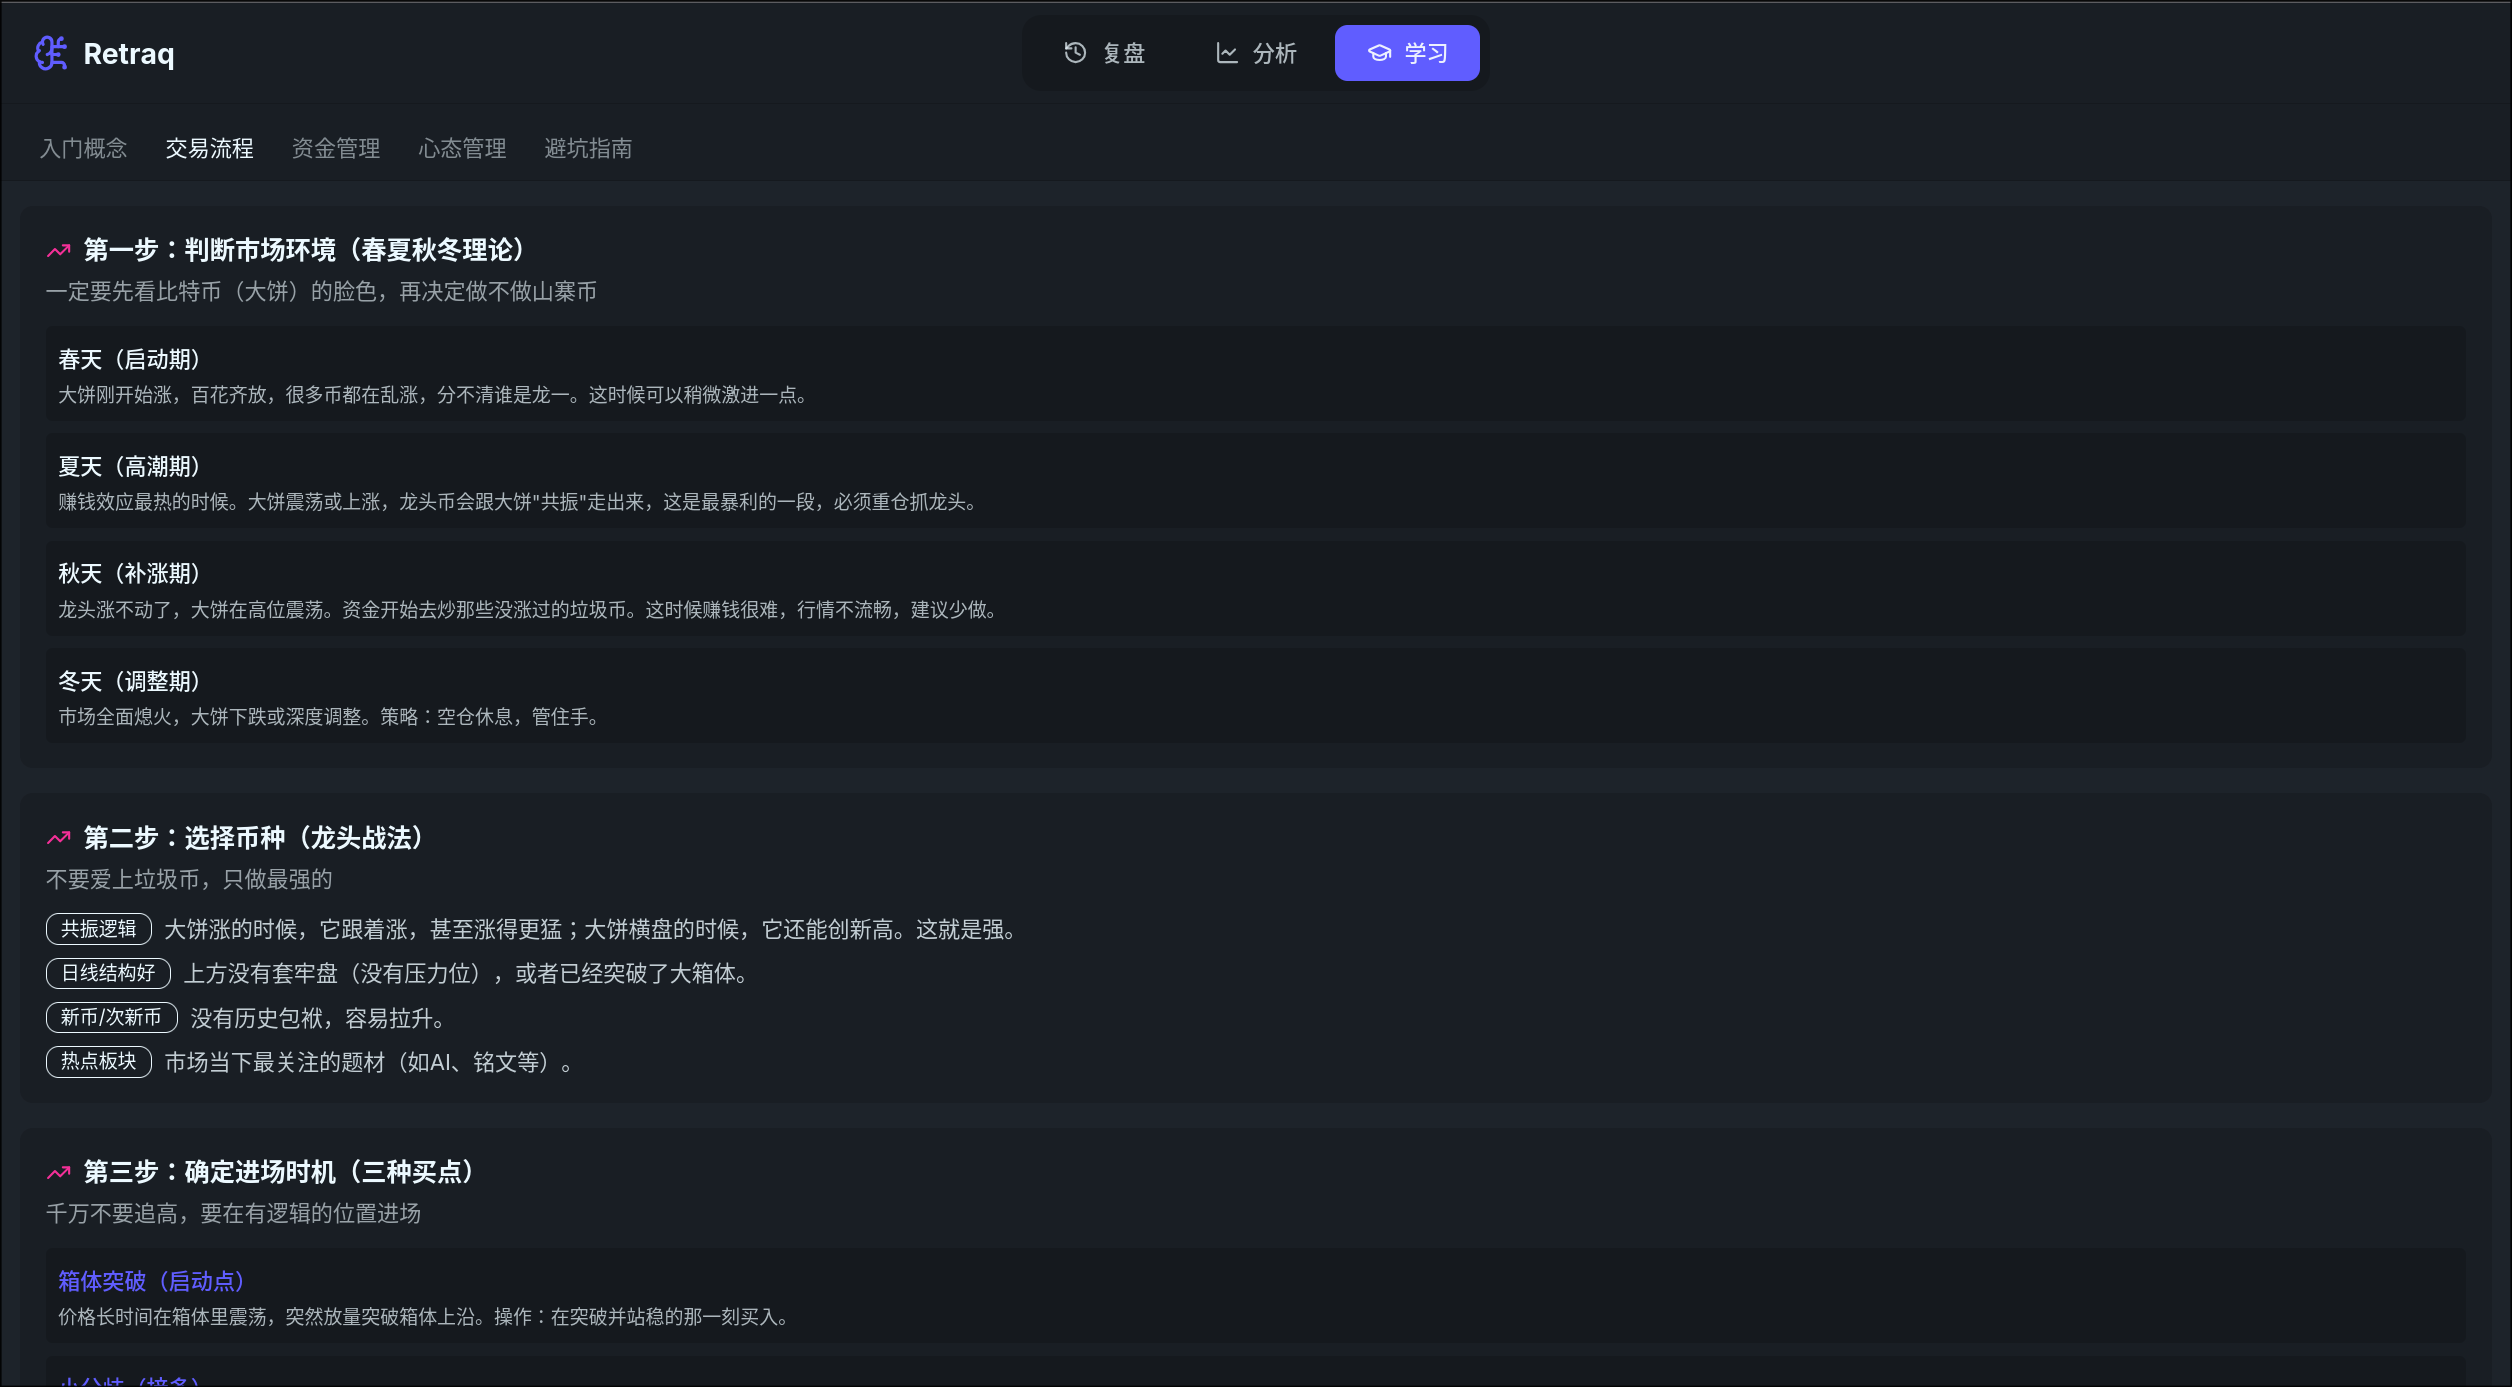
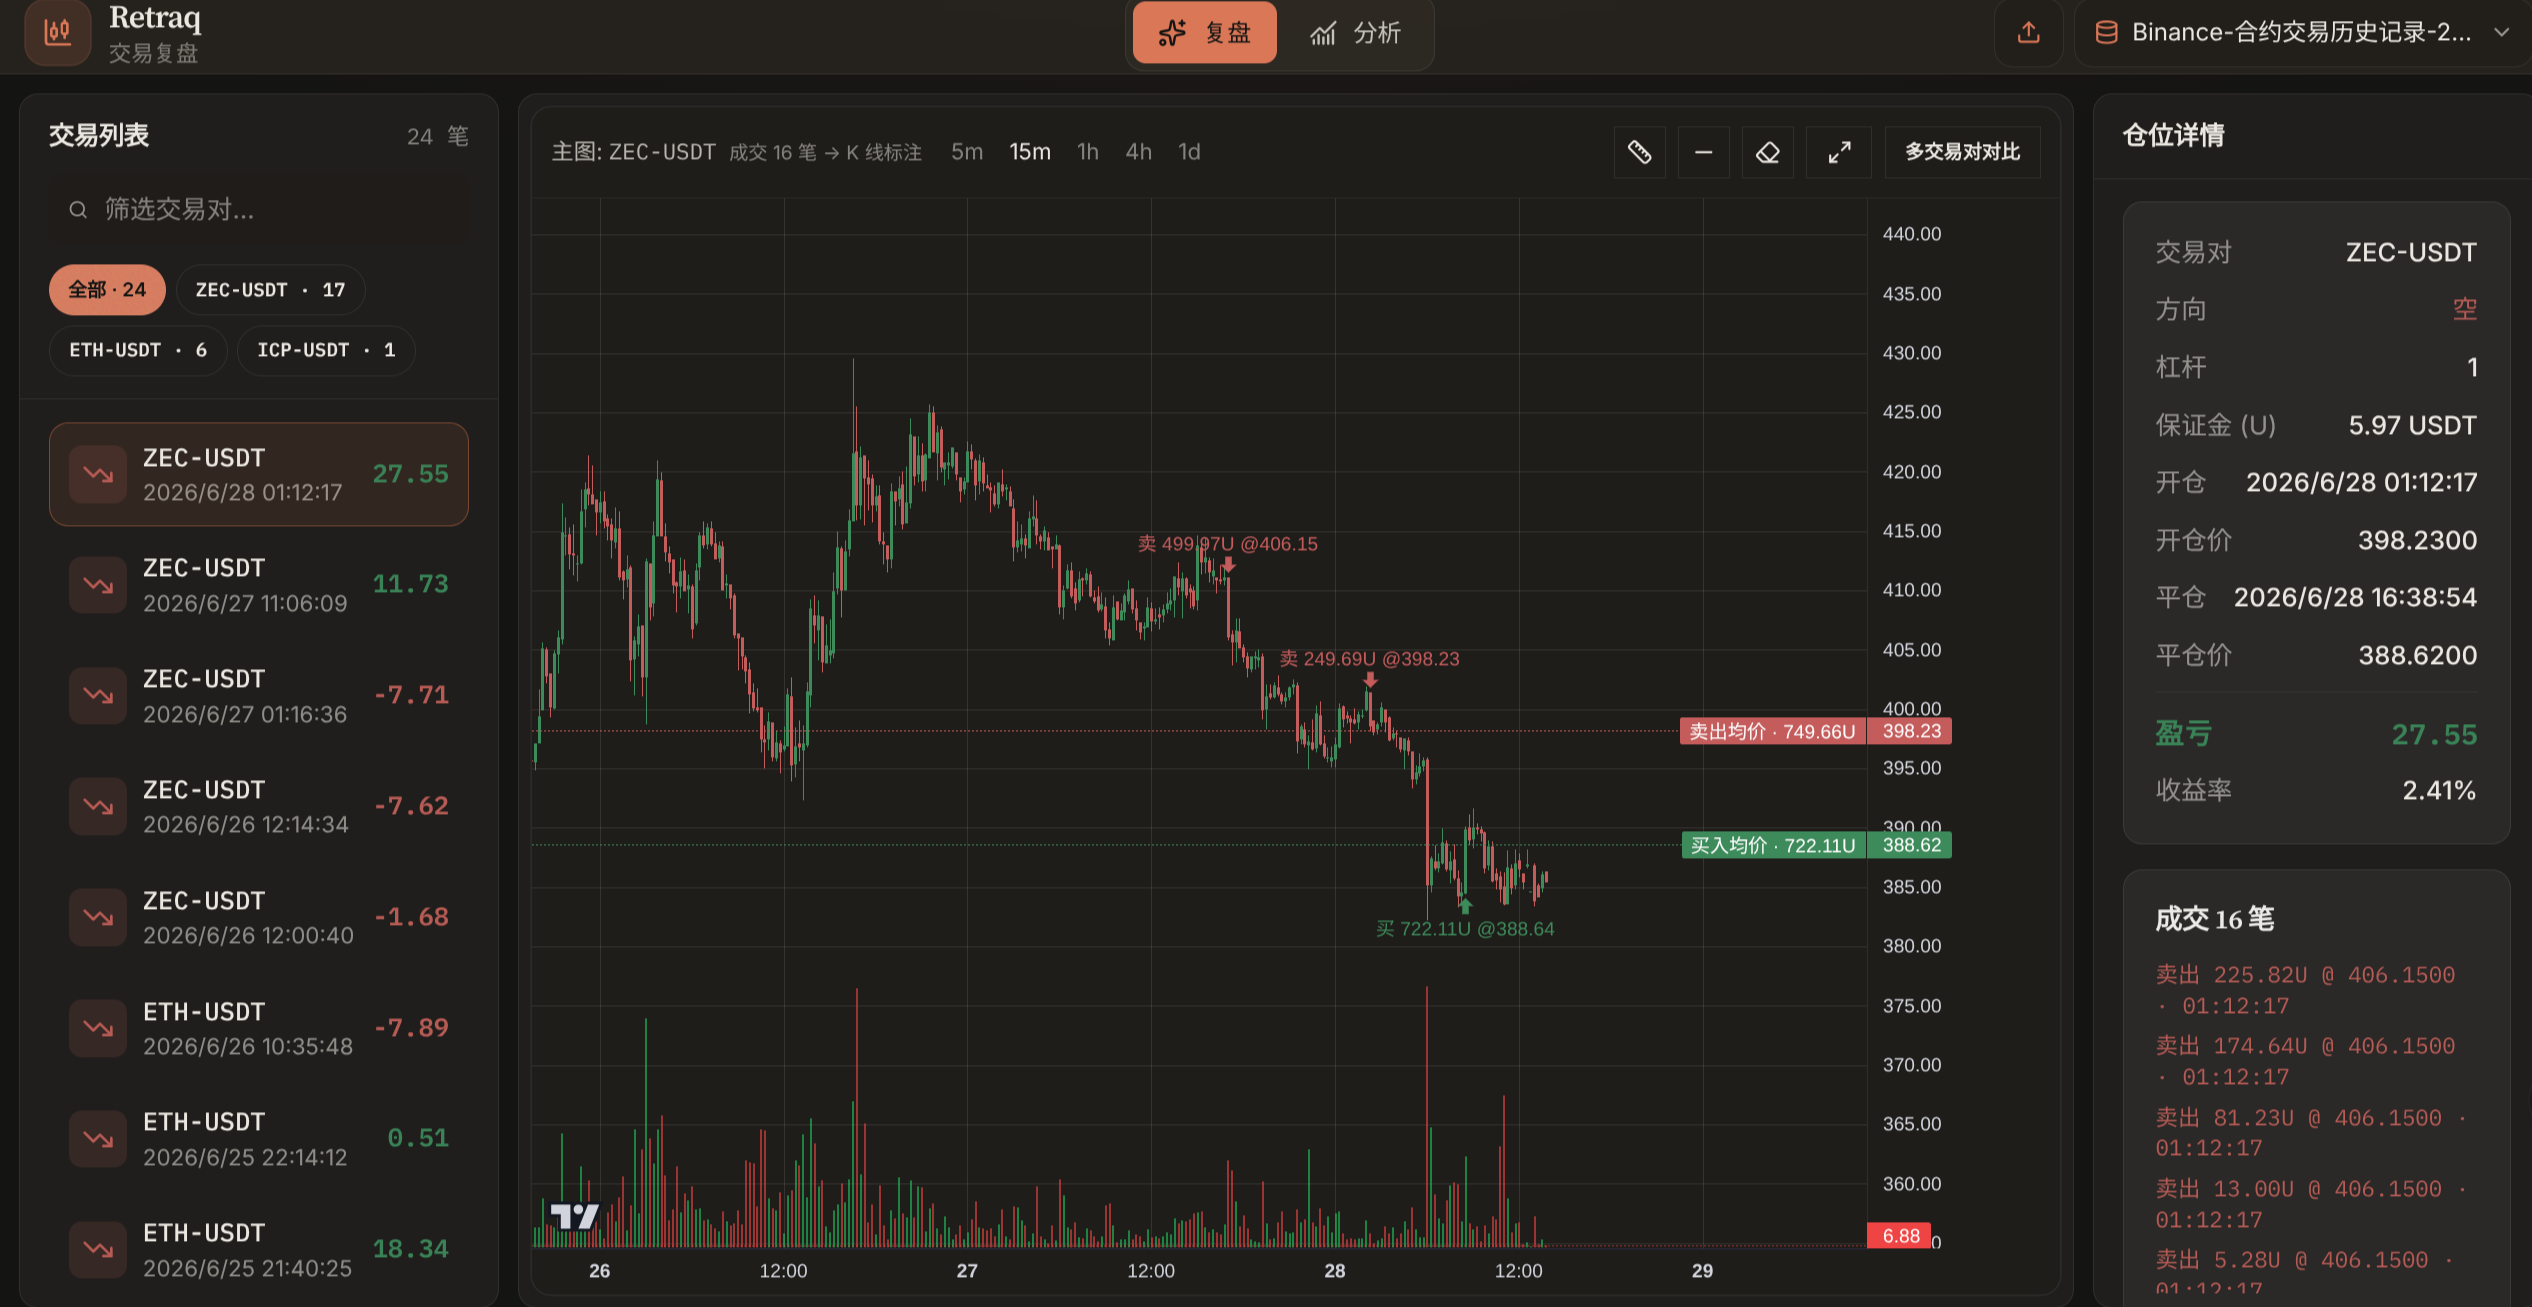
docs: simplify README, single replay screenshot
- Prefer GHCR docker run as quick start
- CI: build image only when app/docker paths change on main
- Remove analysis screenshot

diff --git a/README.md b/README.md
@@ -1,119 +1,50 @@
 # Retraq
 
-本地交易历史复盘工具：按数据集导入交割单，在 K 线上回顾与分析交易记录。
+本地交易复盘：导入交割单 → K 线回放 → 统计分析。**一个导入文件 = 一个数据集**，顶栏切换。
 
-## 截图
+![复盘](docs/images/replay.png)
 
-![复盘页面](docs/images/replay.png)
+## 安全说明
 
-![分析页面](docs/images/analysis.png)
+**请只在本地或可信内网使用。** 无登录、无鉴权；暴露到公网则他人可读写你的数据。
 
-## 功能
-
-- 📈 K线图表 - 从 OKX 获取实时行情数据，支持多周期（5m/15m/1h/4h/1d）
-- 🔀 多周期多交易对对比 - 同时查看不同时间周期和交易对的走势
-- 📍 买卖点标注 - 明确标注买入卖出点和均价，直观复盘每笔交易
-- 📊 交易分析 - 统计胜率、盈亏比、收益曲线等关键指标
-- 📥 多模板导入 - 交割单表格、币安合约交易/仓位历史等（按当前数据集）
-
-## 导入交易记录
-
-在顶栏 **数据集** 处上传 `.xlsx` / `.csv`（交割单格式支持 csv）。数据写入**当前选中的数据集**。
-
-| 模板 | 说明 |
-|------|------|
-| **交割单表格** | 表头含「交易对」等列；`template=auto` 自动识别。示例见 `samples/bit-langge-delivery-example.xlsx`（bit浪浪 交割单数据，仅作格式参考） |
-| **币安 U 本位合约交易历史（推荐）** | 下载中心「合约交易历史」；按成交聚合为开平仓，利润用表内「已实现利润」汇总 |
-| **币安 U 本位合约仓位历史** | 下载中心「仓位历史」；已平仓行直接导入 |
-
-### 币安 U 本位合约交易历史（推荐）
-
-1. [下载中心 → 合约交易历史（U 本位）](https://www.binance.com/zh-CN/my/download-center?type=trade-futures-trade-history&child-type=trade-futures-trade-history-u)（路径以币安页面为准）。
-2. 顶栏导入 **币安 U 本位合约交易历史** xlsx（`template=auto` 可识别）。
-3. 系统按时间将 BUY/SELL 成交合成回合：开仓加权均价、平仓加权均价；**profit = 该回合各笔「已实现利润」之和**（与币安一致）；**profit_rate** 用价差相对开仓价估算；**margin** 用开仓名义价值（无杠杆列时 leverage=1）。
-
-### 币安 U 本位合约仓位历史
-
-1. 登录 [币安](https://www.binance.com)，打开 [下载中心 → 合约仓位历史（U 本位）](https://www.binance.com/zh-CN/my/download-center?type=trade-futures-position-history&child-type=trade-futures-position-history-u)。
-2. 选择时间范围并下载 Excel（表头行为「代币名称/币种名称/币对」等，文件内前几行为账户信息）。
-3. 顶栏上传 **币安 U 本位合约仓位历史** xlsx。系统会按文件名创建/更新数据集并自动切换到该表（默认覆盖，仅含本表仓位）。
-
-导入会映射：交易对、多/空、入场价、平仓均价、结算盈亏、开仓/平仓时间（按 UTC+8 解析）。仅导入状态为 **Closed** 的仓位；杠杆、保证金、收益率等字段导出中无则留空。
-
-## 技术栈
-
-**前端**
-- React 19 + TypeScript
-- Vite
-- TailwindCSS + DaisyUI
-- Lightweight Charts
-
-**后端**
-- FastAPI
-- SQLAlchemy + SQLite
-- CCXT (OKX)
-
-## 快速开始
-
-### 环境要求
-
-- Python 3.11+
-- Node.js 18+
-- pnpm
-- uv (Python 包管理器)
-
-### 安装
-
-```bash
-# 克隆项目
-git clone https://github.com/Xeron2000/retraq.git
-cd retraq
-```
-
-### 启动
-
-无「档案」概念：仅**数据集（= 导入的表格）**。顶栏上传/切换数据集；首次安装库为空，需自行导入。
-
-```bash
-# 后端
-cd backend
-uv sync
-uv run python import_data.py
-uv run uvicorn main:app --reload --port 9527
-
-# 前端（新终端）
-cd frontend
-pnpm install
-pnpm dev
-```
-
-- 后端 API：http://localhost:9527
-- 前端：见 `pnpm dev` 终端中的本地地址（常用 http://localhost:5173）
-
-### Docker（单容器，推荐本地部署）
-
-前后端打在一个镜像里：FastAPI 提供 `/api`，静态页为构建后的前端；SQLite 持久化在卷 `/data`。
-
-```bash
-# 本地构建
-docker compose up --build -d
-# 浏览器打开 http://localhost:8080
-```
-
-或拉取 CI 构建的镜像（`main` 推送后）：
+## 快速开始（推荐：官方镜像）
 
 ```bash
 docker run -d --name retraq -p 8080:8080 -v retraq-data:/data ghcr.io/xeron2000/retraq:latest
 ```
 
-将 `xeron2000/retraq` 换成你的 `ghcr.io/<owner>/<repo>`（全小写）。数据在命名卷 `retraq-data`，删容器不删库。
+浏览器打开 **http://localhost:8080**。SQLite 在卷 `retraq-data`（`/data`），删容器不删库。
 
-## 注意事项
+## 导入数据
 
-- 本项目为个人学习工具，数据存储在本地 SQLite
-- K 线数据来自 OKX 公开 API，请遵守交易所服务条款
-- 不建议直接暴露到公网，如需公开部署请自行添加认证
+1. 顶栏 **数据集** → **上传** `.xlsx` / `.csv`
+2. **`template=auto`** 自动识别格式，按文件名创建/覆盖数据集
+
+| 来源 | 说明 |
+|------|------|
+| 交割单表格 | 表头含「交易对」；示例 `samples/bit-langge-delivery-example.xlsx` |
+| 币安 U 本位合约交易历史 | [下载中心](https://www.binance.com/zh-CN/my/download-center?type=trade-futures-trade-history&child-type=trade-futures-trade-history-u) |
+| 币安 U 本位仓位历史 | [下载中心](https://www.binance.com/zh-CN/my/download-center?type=trade-futures-position-history&child-type=trade-futures-position-history-u) |
+
+库为空时需先导入；K 线需联网（默认 OKX）。
+
+## 其他部署方式
+
+**从源码构建镜像**
+
+```bash
+git clone https://github.com/Xeron2000/retraq.git && cd retraq
+docker compose up --build -d
+```
+
+**本地开发**（前后端分离）
+
+```bash
+cd backend && uv sync && uv run python import_data.py && uv run uvicorn main:app --reload --port 9527
+cd frontend && pnpm install && pnpm dev   # 另开终端，常见 http://localhost:5173
+```
 
 ## License
 
-MIT License
+MIT